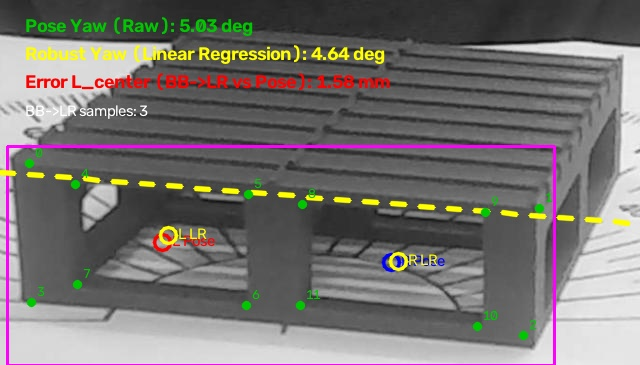
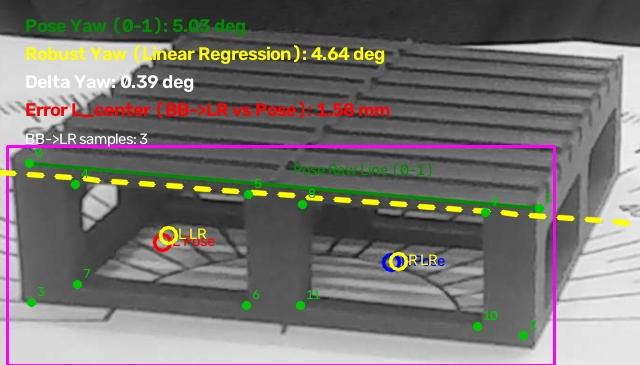
Improve linear regression yaw comparison

diff --git a/4_linear_regression_fit.py b/4_linear_regression_fit.py
@@ -10,7 +10,7 @@ IMAGE_DIR = Path(r"D:\TANGCUONGANH\val\images")
 OUTPUT_DIR = Path(__file__).resolve().parent
 CONFIDENCE = 0.5
 PALLET_WIDTH_MM = 90.0
-TOP_EDGE_KEYPOINTS = [0, 1, 4, 5, 8, 9]
+TOP_EDGE_KEYPOINTS = [0, 4, 5, 8, 9, 1]
 LEFT_CENTER_KEYPOINTS = [4, 5, 6, 7]
 RIGHT_CENTER_KEYPOINTS = [8, 9, 10, 11]
 
@@ -19,6 +19,7 @@ YELLOW = (0, 255, 255)
 RED = (0, 0, 255)
 BLUE = (255, 0, 0)
 GREEN = (0, 200, 0)
+POSE_GREEN = (0, 140, 0)
 WHITE = (255, 255, 255)
 MAGENTA = (255, 0, 255)
 
@@ -139,6 +140,17 @@ def draw_result(image, detection, predicted_centers, sample_index, center_model,
     raw_yaw = float(
         np.degrees(np.arctan2(point_right[1] - point_left[1], point_right[0] - point_left[0]))
     )
+    cv2.line(
+        image,
+        tuple(np.round(point_left).astype(int)),
+        tuple(np.round(point_right).astype(int)),
+        POSE_GREEN,
+        2,
+        cv2.LINE_AA,
+    )
+    raw_line_label_position = (point_left + point_right) / 2.0 + np.array([10.0, -10.0])
+    draw_text(image, "Pose Raw Line (0-1)", raw_line_label_position, POSE_GREEN, 0.5, 1)
+
     robust_yaw = None
     if yaw_result is not None:
         robust_yaw, slope, intercept = yaw_result
@@ -172,13 +184,16 @@ def draw_result(image, detection, predicted_centers, sample_index, center_model,
     error_l_pixels = float(np.linalg.norm(predicted_left - pose_left))
     error_l_mm = error_l_pixels * mm_per_pixel
 
-    draw_text(image, f"Pose Yaw (Raw): {raw_yaw:.2f} deg", (25, 32), GREEN)
+    delta_yaw = abs(raw_yaw - robust_yaw) if robust_yaw is not None else None
+    draw_text(image, f"Pose Yaw (0-1): {raw_yaw:.2f} deg", (25, 32), POSE_GREEN)
     robust_text = f"{robust_yaw:.2f}" if robust_yaw is not None else "N/A"
     draw_text(image, f"Robust Yaw (Linear Regression): {robust_text} deg", (25, 60), YELLOW)
-    draw_text(image, f"Error L_center (BB->LR vs Pose): {error_l_mm:.2f} mm", (25, 88), RED)
-    draw_text(image, f"BB->LR samples: {sample_count}", (25, 116), WHITE, 0.5, 1)
+    delta_text = f"{delta_yaw:.2f}" if delta_yaw is not None else "N/A"
+    draw_text(image, f"Delta Yaw: {delta_text} deg", (25, 88), WHITE)
+    draw_text(image, f"Error L_center (BB->LR vs Pose): {error_l_mm:.2f} mm", (25, 116), RED)
+    draw_text(image, f"BB->LR samples: {sample_count}", (25, 144), WHITE, 0.5, 1)
 
-    return raw_yaw, robust_yaw, error_l_mm
+    return raw_yaw, robust_yaw, delta_yaw, error_l_mm
 
 
 def main():
@@ -206,7 +221,7 @@ def main():
 
         image = result.orig_img.copy()
         predicted_centers = leave_one_out_prediction(samples, sample_index, center_model)
-        raw_yaw, robust_yaw, error_l_mm = draw_result(
+        raw_yaw, robust_yaw, delta_yaw, error_l_mm = draw_result(
             image,
             detection,
             predicted_centers,
@@ -221,6 +236,7 @@ def main():
         print(
             f"Image {image_index}: Pose Yaw (Raw)={raw_yaw:.2f} deg, "
             f"Robust Yaw (Linear Regression)={robust_yaw:.2f} deg, "
+            f"Delta Yaw={delta_yaw:.2f} deg, "
             f"Error L_center={error_l_mm:.2f} mm -> {output_path}"
         )
         saved_count += 1
